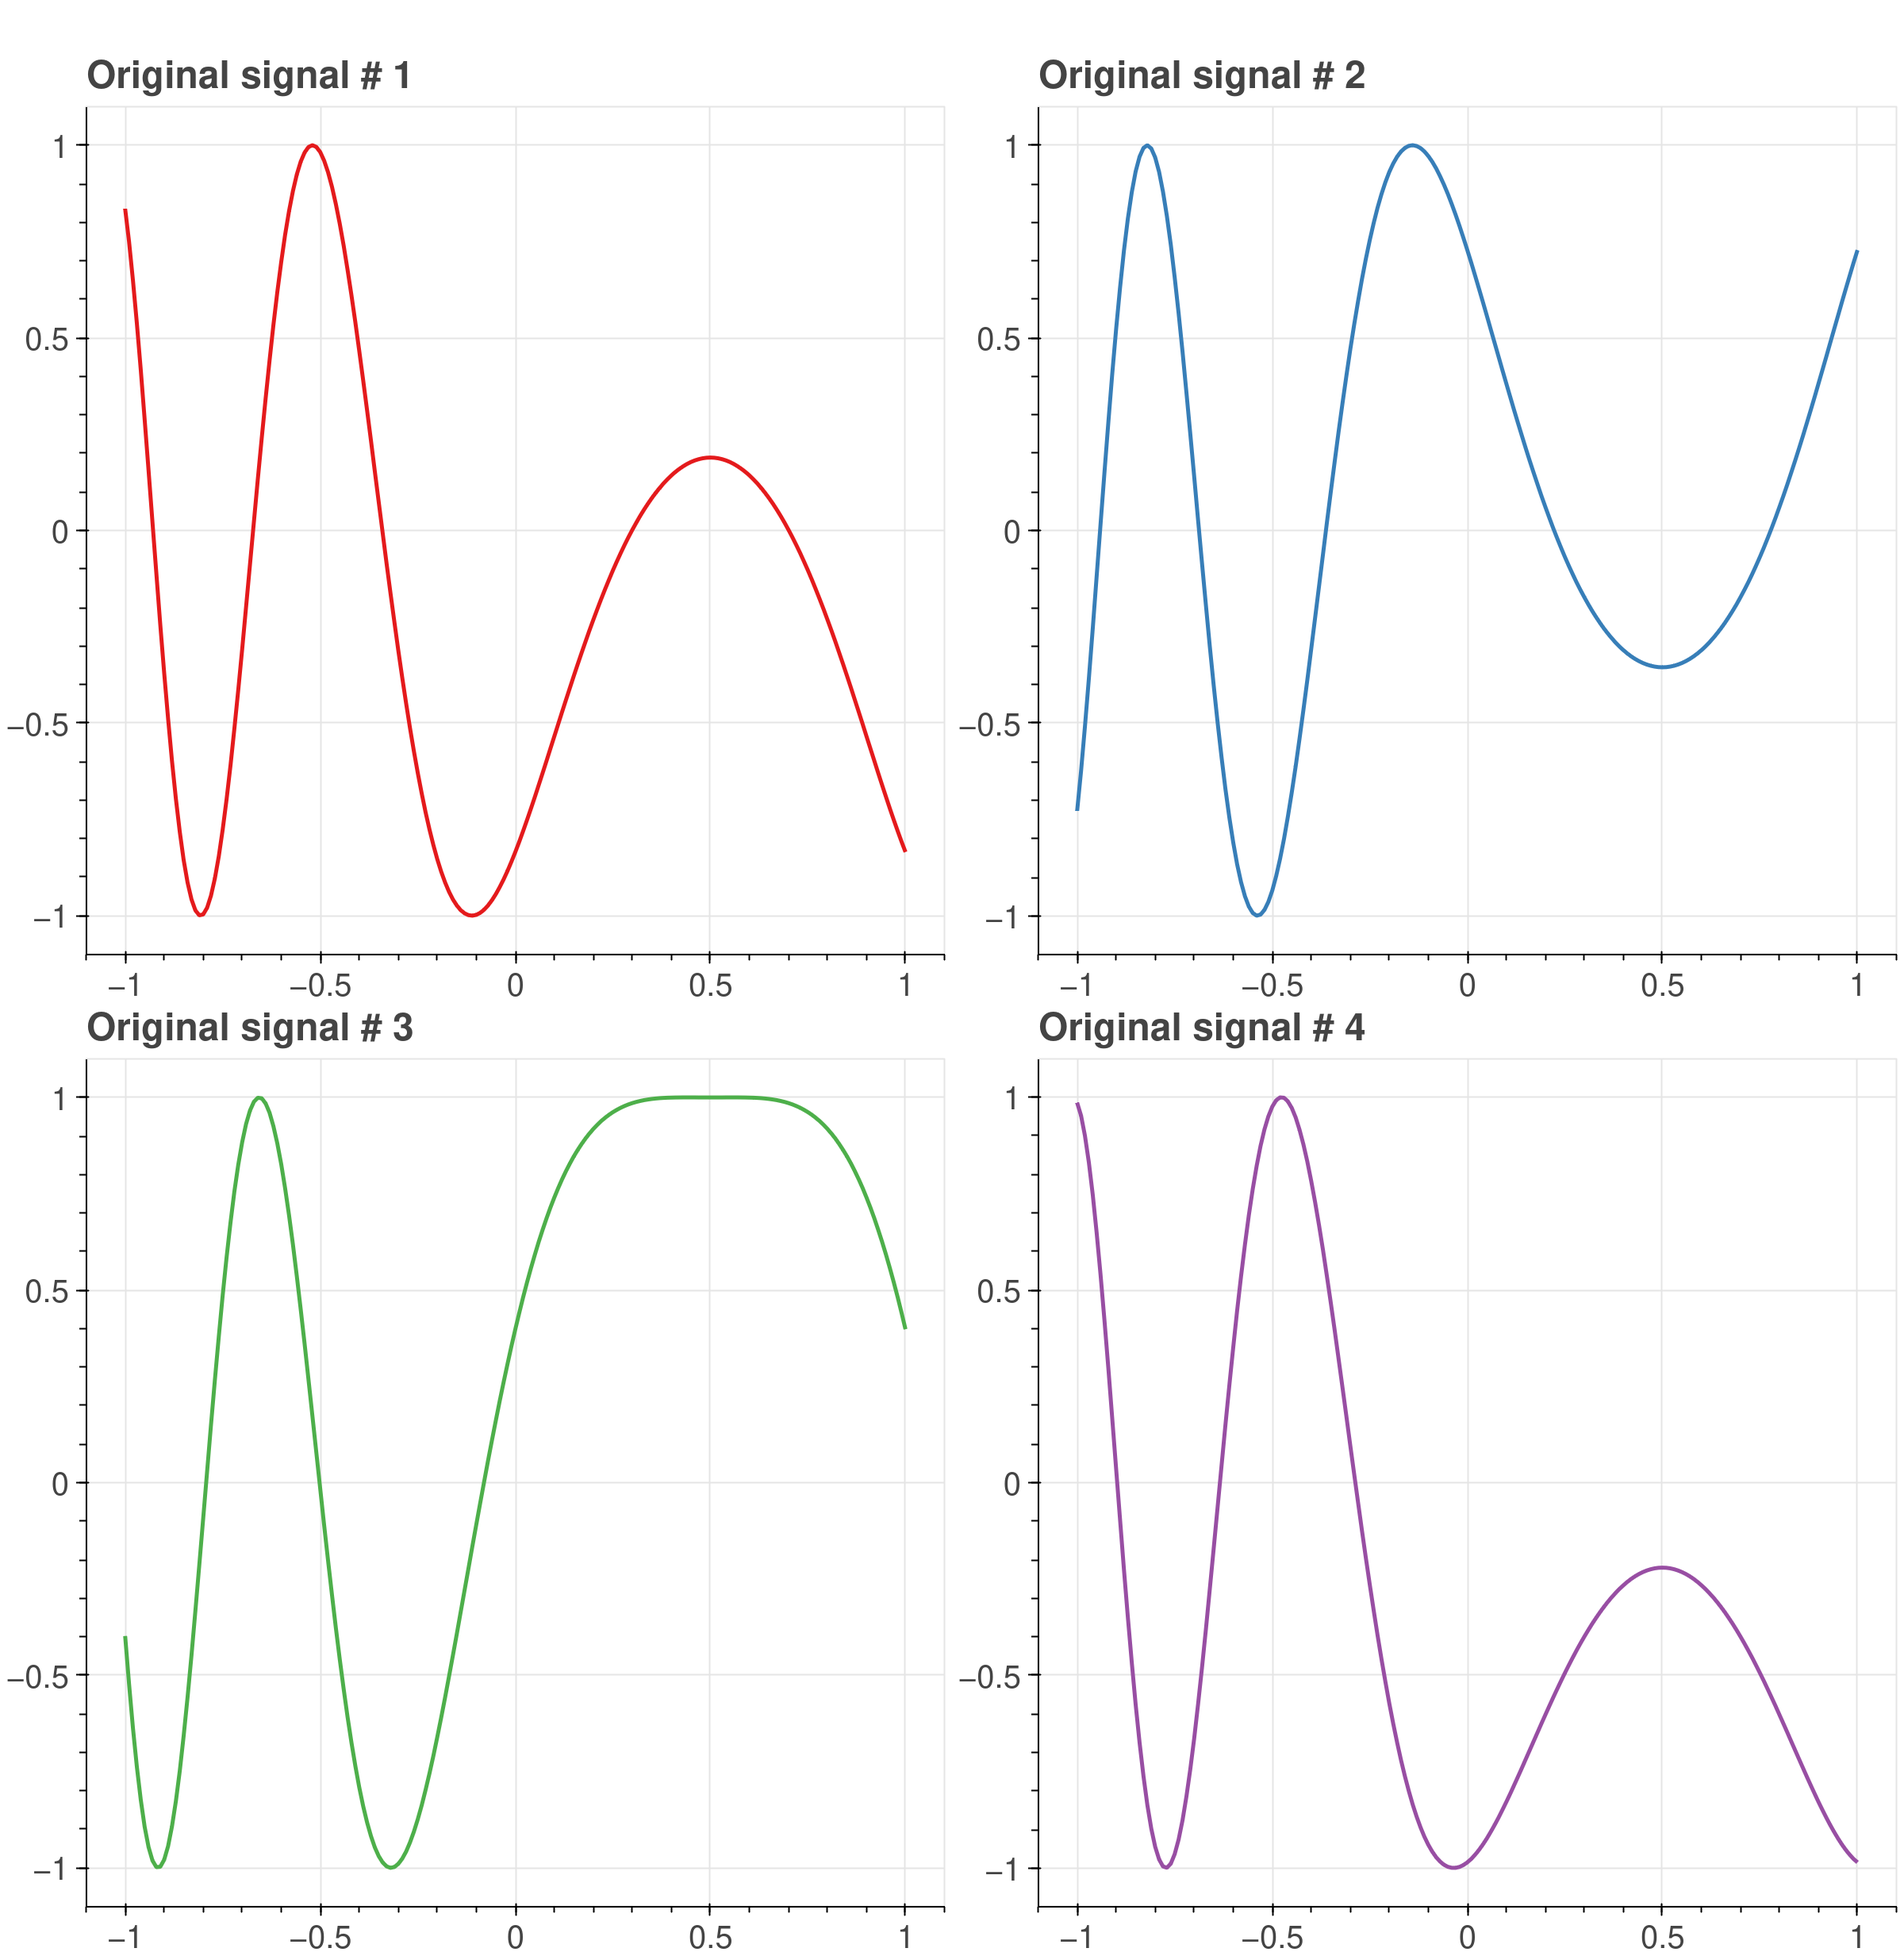
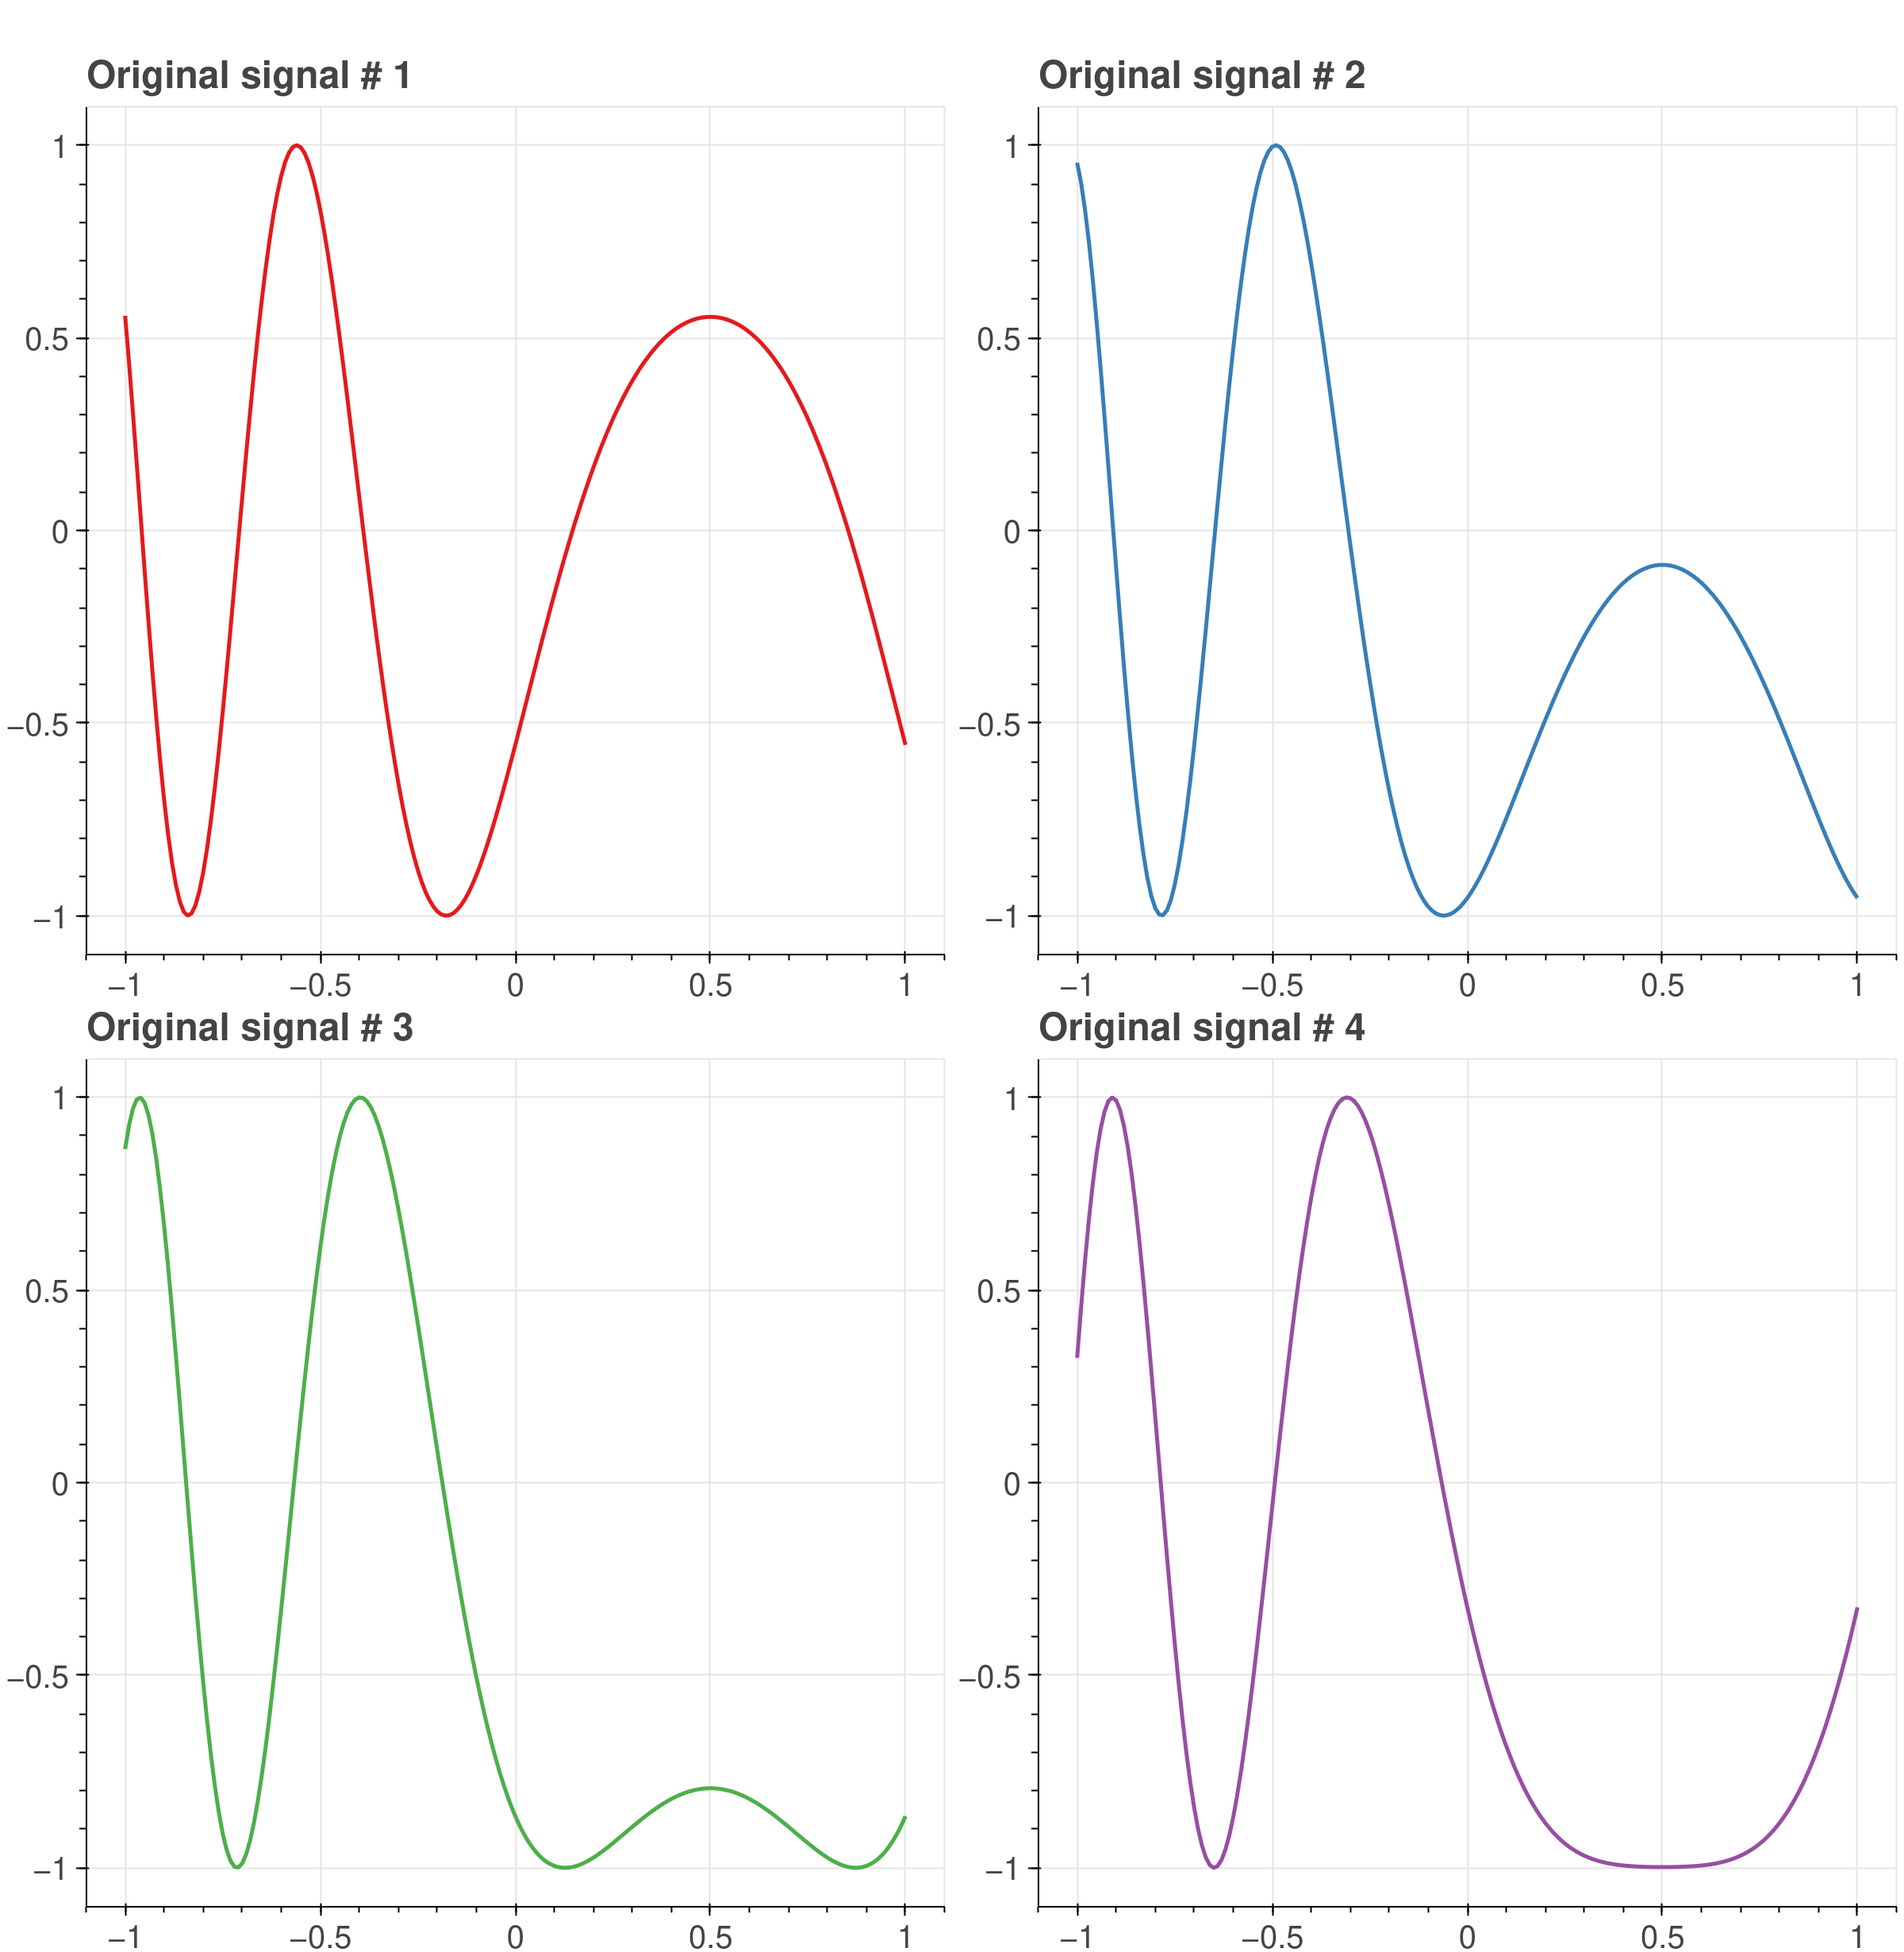
fix: address remaining comments

diff --git a/apps/labs/posts/cupy-czi-grant-year1.md b/apps/labs/posts/cupy-czi-grant-year1.md
@@ -100,16 +100,13 @@ import cupy as cp
 from cupyx.scipy import signal
 import matplotlib.pyplot as plt
 
-cp.random.seed(2354)
-
 rng = cp.random.default_rng(seed=1234)
 t = cp.linspace(-1, 1, 201)
 t = cp.broadcast_to(t, (4, 201)).copy()
-phase = 10 * cp.random.rand(4, 1) - 5
+phase = 10 * rng.random((4, 1)) - 5
 
 # Define 4 random signals composed of a main component with quadratic time
-# input and two sinusoids with 1.25Hz and 3.85Hz frequencies, plus a DC
-# component.
+# input and two sinusoids with 1.25Hz and 3.85Hz frequencies, plus a DC component.
 main_x = cp.sin(2 * cp.pi * 0.75 * t * (1 - t) + 2.1 + phase)
 ```
 
@@ -137,6 +134,8 @@ x = (main_x +
     0.1 * cp.sin( 2 *cp.pi * 1.25 * t + 1) +
     0.18 * cp.cos(2 * cp.pi * 3.85 * t))
 xn = x + rng.standard_normal(t.shape) * 0.08
+
+# Make sure that input is float32, since it yields a better performance
 xn = xn.astype(cp.float32)
 ```
 
